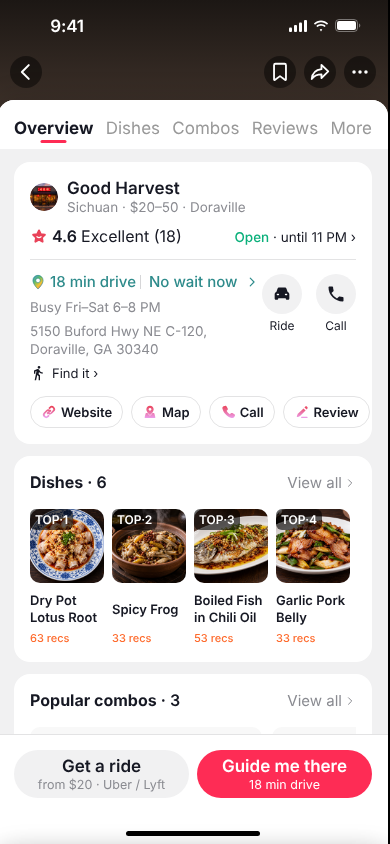
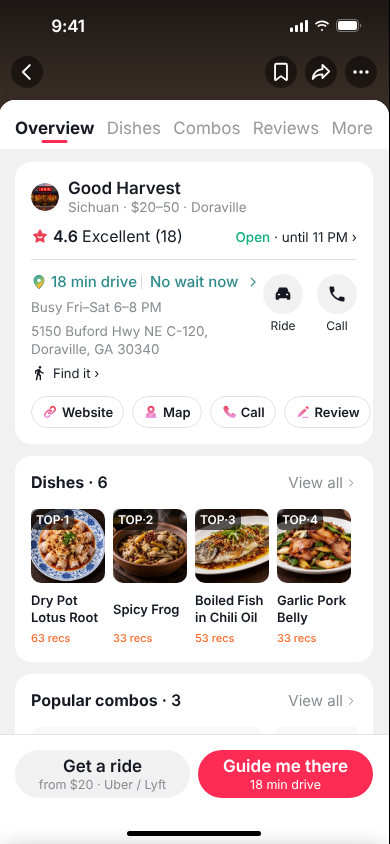
3x dish images sliced from Figma hero sheet; hero/list/tile/guide photos replaced
Claude-Session: https://claude.ai/code/session_01Q6z36aYFBjH3xCc6Ygpjkp

diff --git a/app.js b/app.js
@@ -74,18 +74,18 @@
   const DISHES = [
     { name: 'Mala Dry Pot', price: '$18.95', n: '412 ordered', img: 'img/mala-full.jpg' },
     { name: 'Spicy Frog', price: '$22.95', n: '186 ordered', img: 'img/frog-full.jpg', feed: true },
-    { name: 'Hot Pot', price: '$32.95', n: '275 ordered', img: 'img/hotpot.jpg' },
+    { name: 'Hot Pot', price: '$32.95', n: '275 ordered', img: 'img/d/crayfish-feast.jpg' },
     { name: 'Lunch Special', price: '$12.95', n: '130 ordered', img: 'img/lunch.jpg' }
   ];
   const COMBOS = [
     { who: 'For 2', items: 'Mala Dry Pot · Spicy Frog · Rice', price: '$46', n: '1,208 ordered', imgs: ['img/mala-full.jpg', 'img/frog-full.jpg'] },
-    { who: 'For 4', items: 'Hot Pot · Spicy Frog · Cumin Lamb · Dan Dan Noodles', price: '$98', n: '640 ordered', imgs: ['img/hotpot.jpg', 'img/lamb.jpg'] },
+    { who: 'For 4', items: 'Hot Pot · Spicy Frog · Cumin Lamb · Dan Dan Noodles', price: '$98', n: '640 ordered', imgs: ['img/d/crayfish-feast.jpg', 'img/d/charsiu-beef.jpg'] },
     { who: 'Solo lunch', items: 'Lunch Special · Tea', price: '$14', n: '2,310 ordered', imgs: ['img/lunch.jpg', 'img/dandan.jpg'] }
   ];
   const VIDEOS = [
     { img: 'img/frog-full.jpg', when: '2 days ago', feed: 0 },
     { img: 'img/mala-full.jpg', when: '3 days ago', paid: true },
-    { img: 'img/hotpot.jpg', when: '5 days ago' },
+    { img: 'img/d/spicy-crayfish-bowl.jpg', when: '5 days ago' },
     { img: 'img/lunch.jpg', when: '1 week ago' },
     { img: 'img/dandan.jpg', when: '1 week ago' },
     { img: 'img/lamb.jpg', when: '2 weeks ago' }
@@ -127,8 +127,8 @@
 
   // Compact recommendations; photo opens the existing video feed, text opens Menu.
   const recommendationNames = ['Dry Pot Lotus Root', 'Spicy Frog', 'Boiled Fish in Chili Oil', 'Garlic Pork Belly'];
-  const recommendationPhotos = ['1e55b.png', 'a7cbf.png', '984b6.png', 'ae0c8.png'];
-  $('#dishRow').innerHTML = recommendationNames.map((name, i) => `<div class="dish"><button class="ph" data-photo="${i}" aria-label="Watch ${name}" style="background-image:url(img/figma/${recommendationPhotos[i]})"><span>TOP·${i+1}</span></button><button data-act="dishDetail" data-name="${name}" class="dish-name">${name}</button><span>${[63,33,53,33][i]} recs</span></div>`).join('');
+  const recommendationPhotos = ['garlic-pork-belly.jpg', 'stone-frog.jpg', 'marble-goby.jpg', 'twice-cooked-pork.jpg'];
+  $('#dishRow').innerHTML = recommendationNames.map((name, i) => `<div class="dish"><button class="ph" data-photo="${i}" aria-label="Watch ${name}" style="background-image:url(img/d/${recommendationPhotos[i]})"><span>TOP·${i+1}</span></button><button data-act="dishDetail" data-name="${name}" class="dish-name">${name}</button><span>${[63,33,53,33][i]} recs</span></div>`).join('');
   $('#comboRow').innerHTML = COMBOS.map(c => `
     <div class="combo">
       <div class="pics">${c.imgs.map(i => `<div style="background-image:url(${i})"></div>`).join('')}</div>
@@ -601,7 +601,7 @@
   paintRemembered();
 
   /* Final POI screens: shared rows, page history and six menu categories. */
-  const MENU = {"Signature": [{"name": "Dry Pot Lotus Root", "price": "$18.95", "recs": 1861, "quote": "Crispy outside, tender inside, house secret spice", "img": "img/figma/5e87c.png", "tag": "Signature"}, {"name": "Spicy Frog", "price": "$22.95", "recs": 128, "quote": "Numbing-hot, fresh frog, stir-fried on high heat", "img": "img/figma/cd38e.png", "tag": "Signature"}, {"name": "Boiled Fish in Chili Oil", "price": "$32.95", "recs": 87, "quote": "Layered chili broth, fresh fish, made to order", "img": "img/figma/6e48f.png", "tag": "Signature"}, {"name": "Garlic Pork Belly", "price": "$12.95", "recs": 36, "quote": "Thin-sliced, garlic sauce, cold starter", "img": "img/figma/29847.png", "tag": "Signature"}, {"name": "Mapo Beef Rib", "price": "$24.95", "recs": 14, "quote": "Rich, beef rib, slow-braised", "img": "img/figma/fb44f.png", "tag": "Signature"}, {"name": "Cold Sesame Noodles", "price": "$9.95", "recs": 10, "quote": "Nutty, chewy, hand-pulled", "img": "img/figma/2a11a.png", "tag": "Signature"}], "Meat": [{"name": "Twice-Cooked Pork", "price": "$16.95", "tag": "Popular", "recs": 412, "quote": "Smoky, fatty-lean belly, leek", "img": "img/figma/56e03.png"}, {"name": "Peppercorn Duck", "price": "$21.95", "tag": "Spicy", "recs": 233, "quote": "Numbing Sichuan pepper, crispy skin", "img": "img/figma/93b8e.png"}, {"name": "Char Siu Beef", "price": "$19.95", "tag": "", "recs": 188, "quote": "Sweet glaze, sliced thin", "img": "img/figma/51ee4.png"}, {"name": "Braised Pigeon Legs", "price": "$15.95", "tag": "", "recs": 96, "quote": "Fall-off-the-bone, soy braise", "img": "img/figma/a1903.png"}, {"name": "Mushroom Duck Stew", "price": "$22.95", "tag": "", "recs": 74, "quote": "Slow-cooked, earthy broth", "img": "img/figma/8376c.png"}], "Veg": [{"name": "Dry Pot Lotus Root", "price": "$18.95", "tag": "Popular", "recs": 1861, "quote": "Crispy outside, tender inside", "img": "img/figma/2ad1d.png"}, {"name": "Garlic Edamame", "price": "$6.95", "tag": "", "recs": 305, "quote": "Salted, garlic, cold starter", "img": "img/figma/3b23f.png"}, {"name": "Celery & Lily Bulb Stir-fry", "price": "$10.95", "tag": "", "recs": 142, "quote": "Light, crunchy, not spicy", "img": "img/figma/0b961.png"}, {"name": "Mapo Tofu", "price": "$12.95", "tag": "Spicy", "recs": 527, "quote": "Silky tofu, chili bean paste", "img": "img/figma/8d056.png"}], "Dessert": [{"name": "Egg Tart", "price": "$5.95", "tag": "Popular", "recs": 388, "quote": "Flaky crust, warm custard", "img": "img/figma/1f671.png"}, {"name": "Sesame Bun", "price": "$6.95", "tag": "", "recs": 204, "quote": "Soft, black-sesame filling", "img": "img/figma/f332f.png"}, {"name": "Osmanthus Pastry", "price": "$5.95", "tag": "", "recs": 119, "quote": "Crumbly, floral, light sweet", "img": "img/figma/03e0f.png"}, {"name": "Bird's Nest Pudding", "price": "$8.95", "tag": "", "recs": 67, "quote": "Chilled, coconut milk", "img": "img/figma/8116f.png"}], "Snacks": [{"name": "Cold Sesame Noodles", "price": "$9.95", "tag": "Popular", "recs": 10, "quote": "Nutty, chewy, hand-pulled", "img": "img/figma/2c717.png"}, {"name": "Garlic Edamame", "price": "$6.95", "tag": "", "recs": 305, "quote": "Salted, garlic, cold starter", "img": "img/figma/3b23f.png"}, {"name": "Claypot Rice", "price": "$13.95", "tag": "", "recs": 156, "quote": "Crispy bottom, sausage", "img": "img/figma/b7455.png"}, {"name": "Garlic Crayfish (small)", "price": "$14.95", "tag": "Spicy", "recs": 221, "quote": "Shell-on, garlic butter", "img": "img/figma/21f33.png"}], "Soup": [{"name": "Yellow Croaker Soup", "price": "$18.95", "tag": "Popular", "recs": 173, "quote": "Milky broth, pickled veg", "img": "img/figma/6e48f.png"}, {"name": "Pickled Fish Soup", "price": "$19.95", "tag": "Spicy", "recs": 342, "quote": "Sour-hot, tender fish", "img": "img/figma/6e48f.png"}, {"name": "Stone Frog Soup", "price": "$22.95", "tag": "", "recs": 88, "quote": "Clear broth, ginger", "img": "img/figma/cd38e.png"}, {"name": "Crab & Tofu Soup", "price": "$16.95", "tag": "", "recs": 59, "quote": "Sweet crab, soft tofu", "img": "img/hotpot.jpg"}]};
+  const MENU = {"Signature": [{"name": "Dry Pot Lotus Root", "price": "$18.95", "recs": 1861, "quote": "Crispy outside, tender inside, house secret spice", "img": "img/d/garlic-pork-belly.jpg", "tag": "Signature"}, {"name": "Spicy Frog", "price": "$22.95", "recs": 128, "quote": "Numbing-hot, fresh frog, stir-fried on high heat", "img": "img/d/stone-frog.jpg", "tag": "Signature"}, {"name": "Boiled Fish in Chili Oil", "price": "$32.95", "recs": 87, "quote": "Layered chili broth, fresh fish, made to order", "img": "img/d/marble-goby.jpg", "tag": "Signature"}, {"name": "Garlic Pork Belly", "price": "$12.95", "recs": 36, "quote": "Thin-sliced, garlic sauce, cold starter", "img": "img/d/twice-cooked-pork.jpg", "tag": "Signature"}, {"name": "Mapo Beef Rib", "price": "$24.95", "recs": 14, "quote": "Rich, beef rib, slow-braised", "img": "img/d/mapo-beef-rib.jpg", "tag": "Signature"}, {"name": "Cold Sesame Noodles", "price": "$9.95", "recs": 10, "quote": "Nutty, chewy, hand-pulled", "img": "img/d/cold-noodles.jpg", "tag": "Signature"}], "Meat": [{"name": "Twice-Cooked Pork", "price": "$16.95", "tag": "Popular", "recs": 412, "quote": "Smoky, fatty-lean belly, leek", "img": "img/d/twice-cooked-pork.jpg"}, {"name": "Peppercorn Duck", "price": "$21.95", "tag": "Spicy", "recs": 233, "quote": "Numbing Sichuan pepper, crispy skin", "img": "img/d/peppercorn-duck.jpg"}, {"name": "Char Siu Beef", "price": "$19.95", "tag": "", "recs": 188, "quote": "Sweet glaze, sliced thin", "img": "img/d/charsiu-beef.jpg"}, {"name": "Braised Pigeon Legs", "price": "$15.95", "tag": "", "recs": 96, "quote": "Fall-off-the-bone, soy braise", "img": "img/d/pigeon-legs.jpg"}, {"name": "Mushroom Duck Stew", "price": "$22.95", "tag": "", "recs": 74, "quote": "Slow-cooked, earthy broth", "img": "img/d/mushroom-duck.jpg"}], "Veg": [{"name": "Dry Pot Lotus Root", "price": "$18.95", "tag": "Popular", "recs": 1861, "quote": "Crispy outside, tender inside", "img": "img/d/garlic-pork-belly.jpg"}, {"name": "Garlic Edamame", "price": "$6.95", "tag": "", "recs": 305, "quote": "Salted, garlic, cold starter", "img": "img/d/edamame.jpg"}, {"name": "Celery & Lily Bulb Stir-fry", "price": "$10.95", "tag": "", "recs": 142, "quote": "Light, crunchy, not spicy", "img": "img/d/sea-cucumber-celery.jpg"}, {"name": "Mapo Tofu", "price": "$12.95", "tag": "Spicy", "recs": 527, "quote": "Silky tofu, chili bean paste", "img": "img/d/mapo-beef-rib.jpg"}], "Dessert": [{"name": "Egg Tart", "price": "$5.95", "tag": "Popular", "recs": 388, "quote": "Flaky crust, warm custard", "img": "img/d/foie-gras-tart.jpg"}, {"name": "Sesame Bun", "price": "$6.95", "tag": "", "recs": 204, "quote": "Soft, black-sesame filling", "img": "img/d/sesame-bun.jpg"}, {"name": "Osmanthus Pastry", "price": "$5.95", "tag": "", "recs": 119, "quote": "Crumbly, floral, light sweet", "img": "img/d/pastry.jpg"}, {"name": "Bird's Nest Pudding", "price": "$8.95", "tag": "", "recs": 67, "quote": "Chilled, coconut milk", "img": "img/d/birdsnest-tower.jpg"}], "Snacks": [{"name": "Cold Sesame Noodles", "price": "$9.95", "tag": "Popular", "recs": 10, "quote": "Nutty, chewy, hand-pulled", "img": "img/d/cold-noodles.jpg"}, {"name": "Garlic Edamame", "price": "$6.95", "tag": "", "recs": 305, "quote": "Salted, garlic, cold starter", "img": "img/d/edamame.jpg"}, {"name": "Claypot Rice", "price": "$13.95", "tag": "", "recs": 156, "quote": "Crispy bottom, sausage", "img": "img/d/claypot-rice.jpg"}, {"name": "Garlic Crayfish (small)", "price": "$14.95", "tag": "Spicy", "recs": 221, "quote": "Shell-on, garlic butter", "img": "img/d/garlic-crayfish.jpg"}], "Soup": [{"name": "Yellow Croaker Soup", "price": "$18.95", "tag": "Popular", "recs": 173, "quote": "Milky broth, pickled veg", "img": "img/d/yellow-croaker.jpg"}, {"name": "Pickled Fish Soup", "price": "$19.95", "tag": "Spicy", "recs": 342, "quote": "Sour-hot, tender fish", "img": "img/d/marble-goby.jpg"}, {"name": "Stone Frog Soup", "price": "$22.95", "tag": "", "recs": 88, "quote": "Clear broth, ginger", "img": "img/d/stone-frog.jpg"}, {"name": "Crab & Tofu Soup", "price": "$16.95", "tag": "", "recs": 59, "quote": "Sweet crab, soft tofu", "img": "img/d/drunken-crab.jpg"}]};
   const pageStack=[]; let category='Signature';
   const listMarkup=(items, menu=false)=>items.map((d,i)=>`<article class="menu-dish"><button class="menu-photo" data-photo="${d.name==='Spicy Frog'?1:0}" aria-label="Watch ${d.name}"><img src="${d.img}" alt="${d.name}"></button><button class="menu-dish-info" data-act="dishDetail" data-name="${d.name}"><div class="dish-title"><b>${d.name}</b><strong>${d.price}</strong></div><div class="dish-tags">${d.tag?`<span class="dish-tag ${d.tag==='Spicy'?'spicy':''}">${d.tag}</span>`:''}<span class="recommend ${d.recs>=100?'popular':''}">${d.recs} recommend</span></div><p>“${d.quote}”</p></button></article>`).join('');
   function showPlaceBody(dishes) {

diff --git a/index.html b/index.html
@@ -132,7 +132,7 @@
 
 <section class="screen" id="menu"><header class="menu-header"><button data-act="pop" aria-label="Back"><span class="ic" data-i="back"></span></button><b>Dishes</b></header><div class="menu-scroll"><div class="menu-sticky"><nav class="category-chips" aria-label="Menu categories"></nav></div><div id="menuList"></div></div><div class="action-bar light"><button class="btn2" data-act="ride"><b>Get a ride</b><span>from $20 · Uber / Lyft</span></button><button class="btn1" data-act="dir"><b>Guide me there</b><span>18 min drive</span></button></div></section>
 <section class="screen" id="dish"><div class="dish-scroll"><img class="dish-hero" id="dishHero" src="" alt=""><div class="guide-nav"><button class="circ" data-act="pop" aria-label="Back"><span class="ic" data-i="back"></span></button><button class="circ" data-act="demo" aria-label="Share"><span class="ic" data-i="share"></span></button></div><div class="dish-body"><section class="dcard"><div class="d-title"><h1 id="dName"></h1><span class="dish-tag" id="dTag"></span></div><div class="d-price"><b id="dPrice"></b><span id="dServes"></span><button class="d-like" data-act="likeDish"><span class="ic" data-i="thumb"></span><em id="dLikes"></em></button></div><div class="d-chips" id="dChips"></div></section><section class="dcard"><div class="d-head"><h3>What diners say</h3><span id="dMentions"></span></div><div class="d-review" id="dReview"></div><a class="view-all-bottom" data-act="demo">See all reviews<span class="ic xs" data-i="chev"></span></a></section></div></div><div class="action-bar light"><button class="btn2" data-act="ride"><b>Get a ride</b><span>from $20 · Uber / Lyft</span></button><button class="btn1" data-act="dir"><b>Guide me there</b><span>18 min drive</span></button></div></section>
-<section class="screen" id="guide"><div class="guide-scroll"><img class="guide-hero" src="img/figma/ec583.png" alt="Good Harvest storefront"><div class="guide-nav"><button class="circ" data-act="pop" aria-label="Back"><span class="ic" data-i="back"></span></button><button class="circ" data-act="demo" aria-label="Share"><span class="ic" data-i="share"></span></button></div><article class="guide-content"><h1>Good Harvest</h1><button class="guide-address" data-act="dir">5150 Buford Hwy NE C-120, Doraville, GA 30340<span class="ic" data-i="pin"></span></button><div class="guide-tabs"><span class="src">Directions from the restaurant</span><button data-act="demo">Report</button></div><ol class="guide-steps"><li><span>1</span><p>Take Exit 32 (Chamblee Tucker Rd) off I-285, head toward Buford Hwy</p><img src="img/figma/278a5.png" alt="Exit 32"></li><li><span>2</span><p>Turn into the Asian Square plaza — look for the tall pylon sign on Buford Hwy</p><img src="img/figma/34341.png" alt="Asian Square plaza sign"></li><li><span>3</span><p>Good Harvest is at the far end, suite C-120, under the blue tile roof</p><img src="img/figma/ec583.png" alt="Good Harvest entrance"></li></ol></article></div></section>
+<section class="screen" id="guide"><div class="guide-scroll"><img class="guide-hero" src="img/hero/route-storefront.jpg" alt="Good Harvest storefront"><div class="guide-nav"><button class="circ" data-act="pop" aria-label="Back"><span class="ic" data-i="back"></span></button><button class="circ" data-act="demo" aria-label="Share"><span class="ic" data-i="share"></span></button></div><article class="guide-content"><h1>Good Harvest</h1><button class="guide-address" data-act="dir">5150 Buford Hwy NE C-120, Doraville, GA 30340<span class="ic" data-i="pin"></span></button><div class="guide-tabs"><span class="src">Directions from the restaurant</span><button data-act="demo">Report</button></div><ol class="guide-steps"><li><span>1</span><p>Take Exit 32 (Chamblee Tucker Rd) off I-285, head toward Buford Hwy</p><img src="img/figma/278a5.png" alt="Exit 32"></li><li><span>2</span><p>Turn into the Asian Square plaza — look for the tall pylon sign on Buford Hwy</p><img src="img/figma/34341.png" alt="Asian Square plaza sign"></li><li><span>3</span><p>Good Harvest is at the far end, suite C-120, under the blue tile roof</p><img src="img/figma/ec583.png" alt="Good Harvest entrance"></li></ol></article></div></section>
   <!-- ============ Hand-off sheets ============ -->
   <div id="dim" data-act="closeSheet"></div>
 
